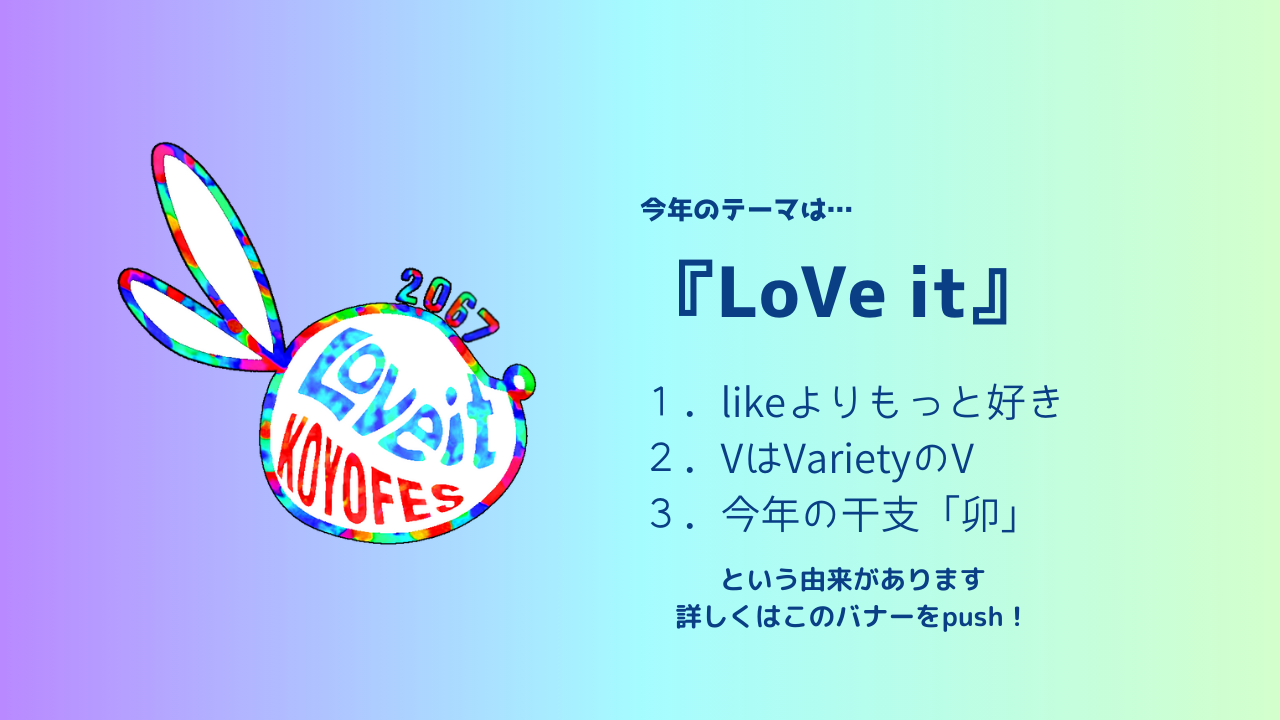
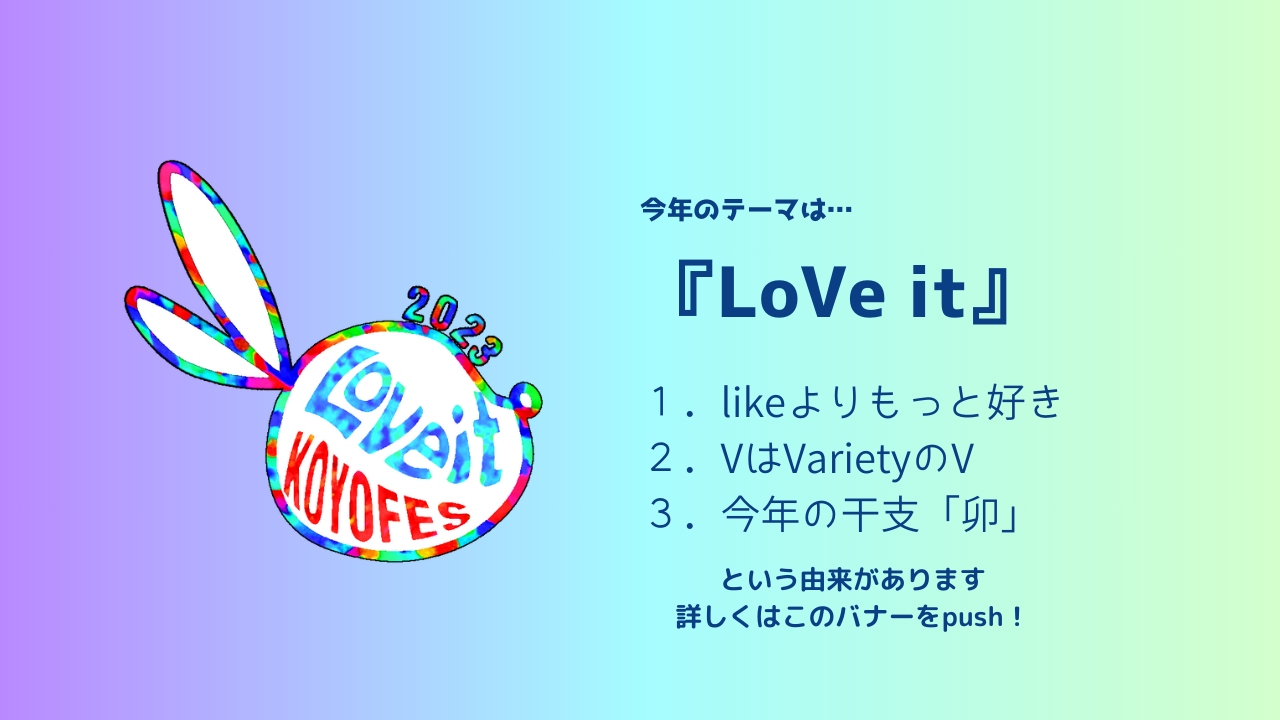
update 最終調整

Changed region(s): [[0.0938, 0.1833, 0.4375, 0.7944]]

diff --git a/about.html b/about.html
@@ -36,7 +36,7 @@
             <div class="drawer">
                 <div id="logo">
                     <a href="kouyousai.html">
-                        <img src="img/logo67.png" alt="logo" class="logo">
+                        <img src="img/logo1.png" alt="logo" class="logo">
                     </a>
                 </div>
 
@@ -118,7 +118,7 @@
                 <img src="img/Instagram.png">
             </a>
             <p>
-                ©非公式こうよう祭実行委委員
+                ©非公式こうよう祭実行委員会
             </p>
         </div>
     </footer>

diff --git a/booths.html b/booths.html
@@ -37,7 +37,7 @@
             <div class="drawer">
                 <div id="logo">
                     <a href="kouyousai.html">
-                        <img src="img/logo67.png" alt="logo" class="logo">
+                        <img src="img/logo1.png" alt="logo" class="logo">
                     </a>
                 </div>
 
@@ -350,7 +350,7 @@
                 <img src="img/Instagram.png">
             </a>
             <p>
-                ©非公式こうよう祭実行委委員
+                ©非公式こうよう祭実行委員会
             </p>
         </div>
     </footer>

diff --git a/event.html b/event.html
@@ -37,7 +37,7 @@
             <div class="drawer">
                 <div id="logo">
                     <a href="kouyousai.html">
-                        <img src="img/logo67.png" alt="logo" class="logo">
+                        <img src="img/logo1.png" alt="logo" class="logo">
                     </a>
                 </div>
 
@@ -601,7 +601,7 @@
                 <img src="img/Instagram.png">
             </a>
             <p>
-                ©非公式こうよう祭実行委委員
+                ©非公式こうよう祭実行委員会
             </p>
         </div>
     </footer>

diff --git a/kitchen_car.html b/kitchen_car.html
@@ -37,7 +37,7 @@
             <div class="drawer">
                 <div id="logo">
                     <a href="kouyousai.html">
-                        <img src="img/logo67.png" alt="logo" class="logo">
+                        <img src="img/logo1.png" alt="logo" class="logo">
                     </a>
                 </div>
 
@@ -465,7 +465,7 @@
                 <img src="img/Instagram.png">
             </a>
             <p>
-                ©非公式こうよう祭実行委委員
+                ©非公式こうよう祭実行委員会
             </p>
         </div>
     </footer>

diff --git a/access.html b/access.html
@@ -36,7 +36,7 @@
             <div class="drawer">
                 <div id="logo">
                     <a href="kouyousai.html">
-                        <img src="img/logo67.png" alt="logo" class="logo">
+                        <img src="img/logo1.png" alt="logo" class="logo">
                     </a>
                 </div>
 
@@ -95,7 +95,7 @@
                 <img src="img/Instagram.png">
             </a>
             <p>
-                ©非公式こうよう祭実行委委員
+                ©非公式こうよう祭実行委員会
             </p>
         </div>
     </footer>

diff --git a/for_visitors.html b/for_visitors.html
@@ -36,7 +36,7 @@
             <div class="drawer">
                 <div id="logo">
                     <a href="kouyousai.html">
-                        <img src="img/logo67.png" alt="logo" class="logo">
+                        <img src="img/logo1.png" alt="logo" class="logo">
                     </a>
                 </div>
 
@@ -87,7 +87,7 @@
                 <img src="img/Instagram.png">
             </a>
             <p>
-                ©非公式こうよう祭実行委委員
+                ©非公式こうよう祭実行委員会
             </p>
         </div>
     </footer>

diff --git a/map.html b/map.html
@@ -36,7 +36,7 @@
             <div class="drawer">
                 <div id="logo">
                     <a href="kouyousai.html">
-                        <img src="img/logo67.png" alt="logo" class="logo">
+                        <img src="img/logo1.png" alt="logo" class="logo">
                     </a>
                 </div>
 
@@ -87,7 +87,7 @@
                 <img src="img/Instagram.png">
             </a>
             <p>
-                ©非公式こうよう祭実行委委員
+                ©非公式こうよう祭実行委員会
             </p>
         </div>
     </footer>

diff --git a/kouyousai.html b/kouyousai.html
@@ -35,7 +35,7 @@
             <div class="drawer">
                 <div id="logo">
                     <a href="#">
-                        <img src="img/logo67.png" alt="logo" class="logo">
+                        <img src="img/logo1.png" alt="logo" class="logo">
                     </a>
                 </div>
 
@@ -102,7 +102,7 @@
                 <img src="img/Instagram.png">
             </a>
             <p>
-                ©非公式こうよう祭実行委委員
+                ©非公式こうよう祭実行委員会
             </p>
         </div>
     </footer> 

diff --git a/exhibitions.html b/exhibitions.html
@@ -36,7 +36,7 @@
             <div class="drawer">
                 <div id="logo">
                     <a href="kouyousai.html">
-                        <img src="img/logo67.png" alt="logo" class="logo">
+                        <img src="img/logo1.png" alt="logo" class="logo">
                     </a>
                 </div>
 
@@ -496,7 +496,7 @@
                 <img src="img/Instagram.png">
             </a>
             <p>
-                © Koki Asai
+                ©非公式こうよう祭実行委員会
             </p>
         </div>
     </footer>
